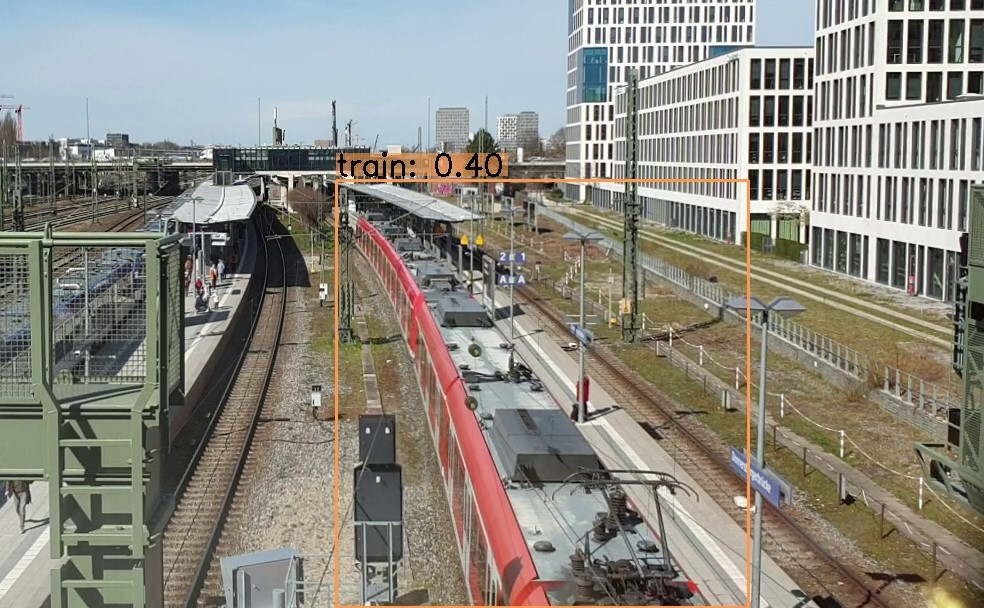
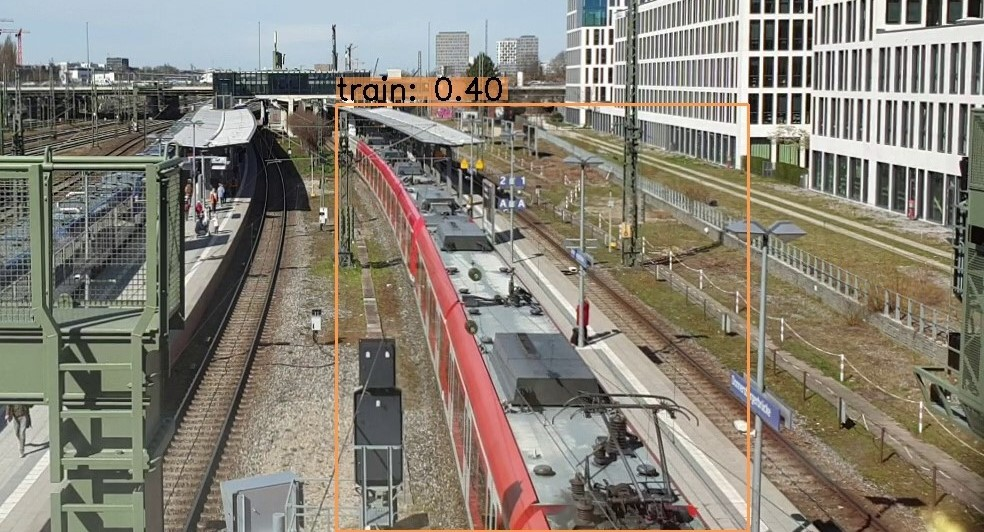
Einige Optimierungen: Rechtschreibung, Formatierung, Bildanpassungen

diff --git a/Latex/VAOT.tex b/Latex/VAOT.tex
@@ -64,83 +64,82 @@
 	
 	
 	\section{Videomaterial}
-	Für dieses Projekt wurden mehrere Aufnahmen aufgenommen. Ziel war es keine zu chaotischen aber auch nicht zu einfache Aufnahmen zu erstellen. Auch sollten verschiedene Szenarien abgebildet werden.\\
+	Für dieses Projekt wurden mehrere Aufnahmen aufgenommen. Ziel war es keine zu chaotischen aber auch nicht zu einfache Aufnahmen zu erstellen. Auch sollten verschiedene Szenarien abgebildet werden. Es wurden drei Aufnahmen angefertigt.\\
 	\textbf{Verkehrsaufnahmen am Brudermühltunnel am Mittleren Ring:}\\
-	Dieser Teil des Mittleren Rings ist sehr verkehrsreich und Autobahnähnlich ausgebaut. Es gibt mehrere Fahrspuren. Alle Fahrzeuge fahren im Sichtfeld in eine Richtung. Es sind ein paar Laternen und Bäume in der Aufnahme die die Sicht etwas beeinträchtigen. Es sind nur Pkwim Datensatz enthalten. Teilweise missachten Fahrzeuge den Sicherheitsabstand und fahren sehr nah aufeinander auf. Das Video hat 60 Bilder pro Sekunde und hat eine Bildauflösung $3840$ × $2160$. Es wurde kein Stativ verwendet sondern nur die interne Stabilisierung des Smartphones genutzt.
+	Dieser Teil des Mittleren Rings ist sehr verkehrsreich und Autobahnähnlich ausgebaut. Es gibt mehrere Fahrspuren. Alle Fahrzeuge fahren im Sichtfeld in eine Richtung. Es sind ein paar Laternen und Bäume in der Aufnahme die die Sicht etwas beeinträchtigen. Es sind nur Pkw im Datensatz enthalten. Teilweise missachten Fahrzeuge den Sicherheitsabstand und fahren sehr nah aufeinander auf. Dies erschwert die Detektion. Das Video hat 60 Bilder pro Sekunde und hat eine Bildauflösung $3840$ × $2160$. Es wurde kein Stativ verwendet sondern nur die interne Stabilisierung des Smartphones genutzt.
 	\begin{figure}[!h]
 		\begin{center}
-			\includegraphics[width=7cm]{Media/BrudermuhlRaw.png}
+			\includegraphics[width=6cm]{Media/BrudermuhlRaw.png}
 			\caption{Verkehrsaufnahmen am Brudermühltunnel}
 			\label{BrudermuhlRaw}
 		\end{center}
 	\end{figure}\\
 	\textbf{Verkehrsaufnahmen am Candidtunnel:}\\
-	Eine stark befahrene Straße mit einer viel zahl von Verkehrsteilnehmern. Es herrscht zwei Richtungsverkehr mit insgesamt sechs Fahrspuren. In eine Richtung stehen die Fahrzeuge in einem Stau. Durch Regen spiegeln viele Oberflächen. Die Bäume bewegen sich aufgrund von stärkeren Wind und verdecken einen Teil der Fahrbahn. Diese Aufnahme ist die Anspruchsvollste. In diesem Video sind neben Pkw auch Busse enthalten. Das Video hat 60 Bilder pro Sekunde und hat eine Bildauflösung $3840$ × $2160$. Es wurde kein Stativ verwendet sondern nur die interne Stabilisierung des Smartphones genutzt.
+	Eine stark befahrene Straße mit einer viel zahl von Verkehrsteilnehmern. Es herrscht Zweirichtungsverkehr mit insgesamt sechs Fahrspuren. In eine Richtung stehen die Fahrzeuge in einem Stau. Durch Regen spiegeln viele Oberflächen. Die Bäume bewegen sich aufgrund von stärkeren Wind und verdecken einen Teil der Fahrbahn. Diese Aufnahme ist die Anspruchsvollste. In diesem Video sind neben Pkw auch Busse enthalten. Das Video hat 60 Bilder pro Sekunde und hat eine Bildauflösung $3840$ × $2160$. Es wurde kein Stativ verwendet sondern nur die interne Stabilisierung des Smartphones genutzt.
 	\begin{figure}[!h]
 		\begin{center}
-			\includegraphics[width=7cm]{Media/CandidRaw.png}
+			\includegraphics[width=6cm]{Media/CandidRaw.png}
 			\caption{Verkehrsaufnahmen am Candidtunnel}
 			\label{CandidtunnelRaw}
 		\end{center}
 	\end{figure}\\
 	\textbf{Zugaufnahmen an der Donnersbergerbrücke:}\\
-	Eine Aufnahme der einer der am stärksten befahren Bahnstrecken Europas \cite{z1}. Hier existiert viel Zugverkehr auf mehreren Gleisen mit unterschiedlichen Zugtypen. Beobachtet werden die vier Gleise der zwei Bahnsteige der S-Bahnhalts Donnersbergerbrücke. Ein Hindernis sind die Masten, Signale und das Bahnsteigdach welche einen guten Blick auf die Züge erschweren. In dieser Aufnahme sind Züge und Fußgänger enthalten. Der Fokus liegt aber bei den Zügen. Das Video hat 30 Bilder pro Sekunde und hat eine Bildauflösung $1920$ × $1080$. Es wurde ein Stativ verwendet.
+	Eine Aufnahme einer der am stärksten befahren Bahnstrecken Europas\cite{z1}. Hier existiert viel Zugverkehr auf mehreren Gleisen mit unterschiedlichen Zugtypen. Beobachtet werden die vier Gleise der zwei Bahnsteige des S-Bahnhalts Donnersbergerbrücke. Ein Hindernis sind die Masten, Signale, Bäume und das Bahnsteigdach welche einen guten Blick auf die Züge erschweren. In dieser Aufnahme sind Züge und Fußgänger enthalten. Der Fokus liegt aber auf den Zügen. Das Video hat 30 Bilder pro Sekunde und hat eine Bildauflösung $1920$ × $1080$. Es wurde ein Stativ verwendet.\\
 	\begin{figure}[!h]
 		\begin{center}
-			\includegraphics[width=7cm]{Media/DonnersbergerRaw.png}
+			\includegraphics[width=6cm]{Media/DonnersbergerRaw.png}
 			\caption{Zugaufnahmen an der Donnersbergerbrücke}
 			\label{DonnersbergerRaw}
 		\end{center}
 	\end{figure}
 	
-	\section{Konzept}
-	
 	\begin{figure*}[!h]
 		\begin{center}
 			\includegraphics[width=16cm]{Media/KonzeptVAOT.png}
-			\caption{Konzept für das Projekt}
+			\caption{Konzept für das Projekt mit zwei Pipelines.}
 			\label{Konzept}
 		\end{center}
 	\end{figure*}
+	
+	\section{Konzept}
 	Ziel des Projektes ist es klassische Verfahren mit neueren DeepLearning Methoden zu vergleichen.
 	Dafür ist für beide Arten eine Pipeline geschaffen worden.\\
 	Für die Klassische Methoden wurde für die Objekterkennung das Gausmixture Verfahren verwendet und für das Tracking den SORT Algorithmus. Für die DeepLearning Verfahren wurde für die Objekterkennung ein Neuronales Netz  und für das Tracking wurde Deepsort verwendet.\\
 	Mit einem Objektzähler können am Ende der beiden Pipelines die Objekte gezählt oder mit einer Zustandserkennung die Bewegungen und Stillstand erfasst werden. Die Abbildung \ref{Konzept} visualisiert das Konzept.\\
-	\\
+	Bilder werden mittels der OpenCV Bibliotheksmethoden Frame für Frame aus einem Video ausgelesen.
 	Bevor mit der Erkennung von Objekten begonnen werden kann, werden die Videoaufnahmen so erstellt, angepasst und eingeschränkt, dass bessere Ergebnisse bei der Erkennung erzielt werden können.
 	\section{Preprocessing}
-	Bilder werden mittels der OpenCV Bibliotheksmethoden Frame für Frame aus einem Video ausgelesen. Des weiteren ist es möglich Bilder vor der weiteren Verarbeitung noch beliebig zuzuschneiden um nur relevant Bereiche zu betrachten. Dies hat den Vorteil das die Performance steigt und auch die Genauigkeit mancher Algorithmen zunimmt. Diese Bilder werden dann in die Pipeline gelegt.\\
-	Es muss die Objektzählerbox definiert werden.
+	Es ist möglich Bilder vor der weiteren Verarbeitung noch beliebig zuzuschneiden um nur relevant Bereiche zu betrachten. Dies hat den Vorteil das die Performance steigt und auch die Genauigkeit mancher Algorithmen zunimmt. Diese Bilder werden dann in die Pipeline gelegt.\\
+	Bevor das Zuschneiden beginnt kann, während und nach der Videoaufnahme, das Video stabilisiert werden.
 	\subsection{Videostabilisierung}
-	Der erste Teil des Preprocessing beginnt vor, während und nach der Videoaufnahme, indem das Video stabilisiert wird. Dabei gibt es folgende Ansätze zur Videostabilisierung:\\
-	\textbf{Mechanische Videostabilisierung}\\
-	Im ersten Ansatz versucht man unerwünschte Bewegungen im Video, die durch das Wackeln der Hand entstehen, durch ein Kamerastativ oder ein Gimbal, welches mit Hilfe von Sensoren Bewegungen ausgleicht, zu vermeiden. Diese Art der Stabilisierung findet vor bzw. während der Aufnahme statt.\\
+	Es gibt folgende Ansätze zur Videostabilisierung:\\
+	\textbf{Mechanische Videostabilisierung:}\\
+	Im ersten Ansatz versucht man unerwünschte Bewegungen im Video, die durch das Wackeln der Hand entstehen, durch ein Kamerastativ oder ein Gimbal, welches mit Hilfe von Sensoren Bewegungen ausgleicht, zu vermeiden. Diese Art der Stabilisierung findet vor bzw. während der Aufnahme statt.
+	In unserer Aufnahme der Donnersbergerbrücke wurde ein Stativ verwendet.\\
 	\begin{figure}[!h]
 		\begin{center}
 			\includegraphics[width=6cm]{Media/GimbalStativ.png}
 			\caption{Ein Stativ und ein Gimbal \cite{g1}\cite{g2}}
 			\label{GS}
 		\end{center}
-	\end{figure}
-	\textbf{Optische Videostabilisierung}\\
-	Die zweite Vorgehensweise bewegt anders als oben nicht die gesamte Kamera, sondern nur Teile im Objektiv oder beim Bildsensor. Es wird also entweder der Bildkreis über dem Bildsensor oder der Bildsensor unter dem Bildkreis verschoben. Beschleunigungssensoren erkennen hier die Bewegung der Kamera und passen dementsprechend die optischen Elemente an, damit das Bild stabilisiert wird. Das Ganze findet während der Aufnahme statt.
-	
-	\textbf{Optische Videostabilisierung}\\
+	\end{figure}\\
+	\textbf{Optische Videostabilisierung:}\\
 	Die zweite Vorgehensweise bewegt anders als oben nicht die gesamte Kamera, sondern nur Teile im Objektiv oder beim Bildsensor. Es wird also entweder der Bildkreis über dem Bildsensor oder der Bildsensor unter dem Bildkreis verschoben. Beschleunigungssensoren erkennen hier die Bewegung der Kamera und passen dementsprechend die optischen Elemente an, damit das Bild stabilisiert wird. Das Ganze findet während der Aufnahme statt.\\
-	\textbf{Digitale Videostabilisierung}\\
+	\textbf{Optische Videostabilisierung:}\\
+	Die zweite Vorgehensweise bewegt anders als oben nicht die gesamte Kamera, sondern nur Teile im Objektiv oder beim Bildsensor. Es wird also entweder der Bildkreis über dem Bildsensor oder der Bildsensor unter dem Bildkreis verschoben. Beschleunigungssensoren erkennen hier die Bewegung der Kamera und passen dementsprechend die optischen Elemente an, damit das Bild stabilisiert wird. Das Ganze findet während der Aufnahme statt. Diese Technik wird in dem genutzten Smartphone verwendet.\\
+	\textbf{Digitale Videostabilisierung:}\\
 	Der letzte Ansatz erfolgt nach der Aufnahme über Software und es ist keine zusätzliche Hardware nötig. Mit Hilfe von Algorithmen werden die Unterschiede zwischen zwei hintereinander folgenden Frames herausgefunden, unerwünschte Bewegungen entfernt und Anschluss zu einem stabilisierten Video zusammengefügt. Im Folgenden soll diese Art der Stabilisierung genauer vorgestellt werden.
 	Dabei wird nicht genauer auf die mathematischen Hintergründe eingegangen, sondern nur die Vorgehensweise beschrieben und auf die Algorithmen dahinter verwiesen.\\
-	\textbf{Videostabilisierung - Implementierung}\\
+	\textbf{Videostabilisierung - Implementierung:}
 	\begin{enumerate}
 		\item Im ersten Schritt werden die Frames eingelesen und in ein Grauwertebild umgewandelt.
 		
 		\item Anschließend wird die Bewegung zwischen dem aktuellen und dem vorherigen Frame herausgefunden. Theoretisch würden 2 Punkte zur Bestimmung reichen, allerdings sollten für eine stabile Schätzung deutlich mehr Punkte verwendet werden.
 		Bildregionen mit besonders vielen Ecken eignen sich hier besonders gut, weshalb mithilfe von goodFeaturesToTrack() von OpenCV die gewünschten Features detektiert werden.
 		Diese Funktion besteht aus einer Modifikation des Harris-Corner-Detectors durch Shi-Tomasi.
-		
 		\begin{figure}[!h]
 			\begin{center}
-				\includegraphics[width=7.5cm]{Media/VideoStab.png}
+				\includegraphics[width=8cm]{Media/VideoStab.png}
 				\caption{+++++++++++CAPTION++++++++++}
 				\label{VS1}
 			\end{center}
@@ -150,7 +149,7 @@
 		
 		\begin{figure}[!h]
 			\begin{center}
-				\includegraphics[width=7cm]{Media/VideoStab2.png}
+				\includegraphics[width=8cm]{Media/VideoStab2.png}
 				\caption{+++++++++++CAPTION++++++++++}
 				\label{VS2}
 			\end{center}
@@ -167,8 +166,7 @@
 		\item Im letzten Schritt wird der Unterschied zwischen der originalen und der geglätteten Trajektorie berechnet und auf die ursprüngliche Transformation addiert, wodurch man eine geglättete Transformation erhält. Diese wird nun auf die Frames angewandt. Um Artefakte zu vermeiden, werden die Bilder um den Bildmittelpunkt minimal skaliert, dadurch können schwarze „Flecken“ an den Bildrändern vermieden werden, solange die Kamerabewegungen nicht zu extrem sind.
 		
 	\end{enumerate}
-	
-	\textbf{Videostabilisierung – Ergebnis}
+	\textbf{Videostabilisierung – Ergebnis:}\\
 	In der Abbildung \ref{VS3} sieht man links die Detektion auf dem Originalvideo und rechts die Detektion auf dem stabilisierten Video. Während die Fahrzeugdetektion fast identisch ist, fällt auf, dass die Bewegungen in den Bäumen und der restlichen Umgebung deutlich geringer sind. Zwar konnten nicht alle unerwünschten Bewegungen entfernt werden, aber es konnte eine sichtbare Verbesserung erzielt werden.
 	\begin{figure*}[!h]
 		\begin{center}
@@ -176,11 +174,10 @@
 			\caption{Ergebnis der Videostabilisierung in einer ++++++++++++++ Darstellung}
 			\label{VS3}
 		\end{center}
-	\end{figure*}
-	
-	\textbf{Videostabilisierung – weiterer Ansatz}
+	\end{figure*}\\
+	\textbf{Videostabilisierung – Alternativer Ansatz:}\\
 	Ein weiterer Ansatz, um die restlichen weißen Punkte zu entfernen ist diese mit einer Erosion zu entfernen und mit einer Dilatation die übrig gebliebenen Fahrzeuge wieder deutlich zu machen.
-	Wie in der folgenden Bilderfolge zu sehen ist verschieden durch die Erosion die unerwünschten Bewegungen, die nicht durch die Videostabilisierung entfernt werden konnten. Die nun kaum sichtbaren Flächen der Fahrzeuge werden mit der Dilatation wieder so weit vergrößert, dass diese wieder gut zu detektieren sind.\\
+	Wie in der folgenden Bilderfolge zu sehen ist verschieden durch die Erosion die unerwünschten Bewegungen, die nicht durch die Videostabilisierung entfernt werden konnten. Die nun kaum sichtbaren Flächen der Fahrzeuge werden mit der Dilatation wieder so weit vergrößert, dass diese wieder gut zu detektieren sind. Diese Schritte kann man gut in den Grafik 9 beobachten.\\
 	\begin{figure}
 		\begin{subfigure}{}
 			\centering\includegraphics[width=7cm]{Media/MOG1.png}
@@ -197,7 +194,7 @@
 		\begin{subfigure}{}
 			\centering\includegraphics[width=7cm]{Media/MOG4.png}
 			\caption{++++++++++++++++++++++}
-		\end{subfigure}
+		\end{subfigure}	
 	\end{figure}
 	
 	
@@ -207,7 +204,7 @@
 	Im ersten Schritt wird der Funktion eine Anzahl an Frames zum „Lernen“ zugeteilt. Aus diesen wird der unbewegte Hintergrund bestimmt, welcher später subtrahiert wird, sodass nur die bewegten Objekte übrigbleiben.
 	Der Algorithmus modelliert für jeden Pixel den Hintergrund mit unterschiedlich gewichteten Gauss-Funktionen.  Diese K-Funktionen enthalten eine Gewichtung $(\omega_i,t)$, den durchschnittlichen Intensitätswert $(\mu_i,t)$ und die Standardabweichung $(\sigma_i,t)$ für den i-ten Gaussian zum Zeitpunkt t.
 	\[ \sum_{i-1}^{K} \omega_i,t * \eta(u; \mu_i,\sigma_i)  \]
-	WAS MACHT ETA??????????\\
+	WAS MACHT ETA??????+++++++++????\\
 	Mit jedem neuen Pixel (z.B. Kamerabewegung oder Fahrzeugbewegung) werden die Gauss-Funktionen frameweise geupdatet. Dabei wird die Pixelhistorie und der neue Pixelwert berücksichtigt. Falls nun zu einem neuen Pixel keiner der Gauss-Funktionen innerhalb eines Thresholds passt, wird der Pixel als Vordergrund deklariert, ansonsten als Hintergrund. Die Abbildung \ref{mogKonzept} zeigt ++++++++++++++\\
 	\begin{figure}[!h]
 		\begin{center}
@@ -219,20 +216,19 @@
 	Vereinfacht beschrieben zählt der Algorithmus in den Lernbildern die Zeit, in welcher ein Pixel den gleichen Intensitätswert hat und bestimmt so den Hintergrund. Ändert sich nun dieser Wert, wird an dem Pixel eine Bewegung erkannt, dieser als Vordergrund bestimmt und die Parameter geupdatet.\\
 	\\
 	\textbf{Probleme MOG}\\
-	Eine Schwierigkeit bei der Objekterkennung ist, dass die Bewegungen hauptsächlich bei großen Intensitätsunterschieden wie der Wechsel von Straße zu Fahrzeuganfang und von Fahrzeugende zur Straße, erkannt werden. Große Flächen wie die Motorhaube, Windschutzscheibe und die Dachfläche werden nicht erkannt, da diese so lange einen Pixel mit einem sehr ähnlichen Intensitätswert „bedecken“, dass dieser zwischendurch als Hintergrund festgelegt wird. Dabei kann es passieren, dass je nach Thresholdgröße mehrere Objekte in einem Fahrzeug erkannt werden.
+	Eine Schwierigkeit bei der Objekterkennung ist, dass die Bewegungen hauptsächlich bei großen Intensitätsunterschieden wie der Wechsel von Straße zu Fahrzeuganfang und von Fahrzeugende zur Straße, erkannt werden. Große Flächen wie die Motorhaube, Windschutzscheibe und die Dachfläche werden nicht erkannt, da diese so lange einen Pixel mit einem sehr ähnlichen Intensitätswert „bedecken“, dass dieser zwischendurch als Hintergrund festgelegt wird. Dabei kann es passieren, dass je nach Thresholdgröße mehrere Objekte in einem Fahrzeug erkannt werden. ++++Bezug auf Grafik \ref{mogFehler}+++++
 	\begin{figure}[!h]
 		\begin{center}
-			\includegraphics[width=7cm]{Media/MOGVergleich.png}
-			\caption{++++++++++++++++++++++++++}
-			\label{mogKonzept}
+			\includegraphics[width=8cm]{Media/MOGVergleich.png}
+			\caption{+++++++++++++++++++++++++++++++++++}
+			\label{mogFehler}
 		\end{center}
 	\end{figure}
 	
-	
 	\section{Objekterkennung: YoloV4}
-	YOLO ist ein Neuronal Netz für die Echtzeit-Objekterkennung. In diesem Projekt verwendeten wir die 4te und damit aktuellste Version von Yolo\cite{b2}. So bietet jede Version inkrementelle Verbesserung zum jeweiligen Vorgänger. In dem folgenden Abschnitt werden die wichtigsten Punkte aller Versionen erläutert.\\
+	YOLO ist ein Neuronal Netz für die Echtzeit-Objekterkennung. In diesem Projekt verwendeten wir die vierte und damit aktuellste Version von Yolo\cite{b2}. So bietet jede Version inkrementelle Verbesserung zum jeweiligen Vorgänger. In dem folgenden Abschnitt werden die wichtigsten Punkte aller Versionen erläutert.\\
 	YOLO ist die Abkürzung für 'You Only Look Once' was übersetzt 'Man sieht nur einmal hin' heißt. Die Aufgabe der Objekterkennung besteht darin, den Ort und die Größe der Bounding Box im Bild zu bestimmen, sowie die Objekte zu klassifizieren. Frühere Methoden, wie R-CNN und seine Variationen, verwendeten eine Pipeline, um diese Aufgabe in mehreren Schritten durchzuführen. Dies ist in der Ausführung langsam und aufwendiger zu trainieren, da jede einzelne Komponente separat trainiert werden muss. YOLO, erledigt beide Aufgaben mit einem einzigen Convolutional Neural Network. Es betrachtet dabei die Objekterkennung als ein Regressionsproblem auf räumlich getrennte Bounding Boxes und zugehörige Klassenwahrscheinlichkeiten.\\
-	Die verwendete Loss-Funktion betrachtet drei Komponenten:
+	Für die Regression verwendete Loss-Funktion betrachtet drei Komponenten:
 	\begin{enumerate}
 		\item \textbf{Localization loss:} Differenz zwischen vorhergesagten Bounding-Box-Werten (x,y,w und h) und tatsächlichen Bounding-Box-Werten.
 		\[ \lambda_{coord} \sum_{i=0}^{S^2}\sum_{j=0}^{B} \mathbb{1}_{i j}^{obj} [(x_i - \hat{x}_i )^2 + (y_i - \hat{y}_i )^2] \]
@@ -251,8 +247,7 @@
 		Wenn $\mathbb{1}_{i}^{obj} = 1$ dann wurde ein Objekt in Zelle $i$ gefunden.
 		$\hat{p}_i(c)$ beschreibt die Klassenwahrscheinlichkeit für die Klasse $c$ in der Zelle $i$ \cite{b5}.
 	\end{enumerate}
-	
-	Zusammengesetzt sieht der Loss wie folgt aus.
+	Zusammengesetzt sieht der Loss wie folgt aus:
 	\[ \lambda_{coord} \sum_{i=0}^{S^2}\sum_{j=0}^{B} \mathbb{1}_{i j}^{obj} [(x_i - \hat{x}_i )^2 + (y_i - \hat{y}_i )^2] \]
 	\[ + \lambda_{coord} \sum_{i=0}^{S^2}\sum_{j=0}^{B} \mathbb{1}_{i j}^{obj} [(\sqrt{w_i} - \sqrt{\hat{w}_i} )^2 + (\sqrt{h_i} - \sqrt{\hat{h}_i} )^2] \]
 	\[ + \sum_{i=0}^{S^2}\sum_{j=0}^{B} \mathbb{1}_{i j}^{obj} (C_i - \hat{C}_i)^2 \]
@@ -270,7 +265,7 @@
 			\label{IoU}
 		\end{center}
 	\end{figure}\\
-	In Abbildung \ref{IoU} ist die Berechnung der Intersection-Over-Union dargestellt. Sie beschreibt das Verhältnis der Schnittfläche einer Bounding Box mit der Grundwahrheit bezüglich der Gesamtfläche von Bounding Box und Grundwahrheit. Je genauer die beiden Flächen übereinander liegen desto höher der Wert, desto besser ist die Vorhersage der Bounding Box. ++QUELLE++\\
+	In Abbildung \ref{IoU} ist die Berechnung der Intersection-Over-Union dargestellt. Sie beschreibt das Verhältnis der Schnittfläche einer Bounding Box mit der Grundwahrheit bezüglich der Gesamtfläche von Bounding Box und Grundwahrheit. Je genauer die beiden Flächen übereinander liegen desto höher der Wert, desto besser ist die Vorhersage der Bounding Box.\\
 	\\
 	In der zweiten Version von Yolo wurde an mehreren Stellen etwas verbessert. So wurde zum Beispiel Batch-Normalization in Convolutioonal-Layers eingefügt.\\
 	Die Inputgröße des Netzes wurde von $224*224$ auf $448*448$ erhöht.\\
@@ -294,7 +289,7 @@
 	Außerdem wir der \textit{objectness score} $t_o$ vorhergesagt.
 	\[ P_r(Object)*IoU_{b}^{object} = \sigma(t_o) \]
 	$\sigma(t_o)$ entspricht dem Box Konfidenz Score.
-	Der Output des Modells enthält für jede Gitterzelle n Boxen, wobei n der Anzahl der Ankerboxen entspricht. Jede Box ist ein Vektor aus 4 Koordinaten objectness score und der Klassen C. Der Vektor enthält: $[b_x,b_y,b_w,b_h, b_o, C]$\cite{b3}.
+	Der Output des Modells enthält für jede Gitterzelle n Boxen, wobei n der Anzahl der Ankerboxen entspricht. Jede Box ist ein Vektor aus vier Koordinaten, dem \textit{Objectnessscore} und der Klassenwahrscheinlichkeiten C. Der Vektor enthält: $[b_x,b_y,b_w,b_h, b_o, C]$\cite{b3}.
 	\[ C = [c_1, c_2,..., c_{80}]^T\]
 	\[ P = [P_r * c_1, P_r * c_2, ..., P_r * c_{80}] \]
 	\[ class = argmax_i(C)\]
@@ -310,19 +305,19 @@
 			\label{FPN}
 		\end{center}
 	\end{figure}\\
-	Die letzte dieser Schichten der jeweiligen Skalierungen sagt einen 3-D-Tensor voraus, der Bounding Box, Objekthaftigkeit und Klassenvorhersagen enthält. Es werden aber für jede der drei Skalierung drei Boxen vorausgesagt. Der Tensor entspreche dann für 4 Bounding-Box-Offsets, 1 Objektvorhersage und 80 Klassenvorhersagen $N*N*[3*(4 + 1 + 80)]$.\cite{b4}\\
+	Die letzte dieser Schichten der jeweiligen Skalierungen sagt einen 3-D-Tensor voraus, der Bounding Box, Objekthaftigkeit und Klassenvorhersagen enthält. Es werden aber für jede der drei Skalierung drei Boxen vorausgesagt. Der Tensor enthält dann die vier Bounding-Box-Offsets, eine Objektvorhersage und 80 Klassenvorhersagen $N*N*[3*(4 + 1 + 80)]$ \cite{b4}.\\
 	\\
 	YoloV4 hat die Geschwindigkeit und Genauigkeit verbessert. So nennt das Paper \cite{b2} zum Beispiel \textit{Bag of Freebies}. Damit sind Verbesserungen gemeint die die Genauigkeit des Modells zur Trainingszeit verbessern aber die Inferenzzeit nicht beeinflussen. So wurde stark das Training optimiert. Bei dem Training werden Bilder zusätzlich aus dem Datensatz generiert. Existierende Bilder werden dupliziert und dann rotiert, zugeschnitten, verzerrt, verdunkelt, etc. und dann auch durch das Netz geschickt. 
 	Auch Techninken wie \textit{Cut Mix} und \textit{Mosaic Dataaugmentation} werden angewendet. Bei älteren Verfahren werden Bildteile gelöscht. Bei den beiden verwendeten Verfahren werden stattdessen Bildteile aus den Trainingsdaten ausgeschnitten und kombiniert, wobei die Ground-Truth-Labels ebenfalls angespasst werden müssen. Diese Data Augmentation sorgt für eine verbesserte Generalisierungfähigkeit des Modells.\\
 	Regularisierungmethoden wie \textit{DropOut} und \textit{DropBlock} wurden gegen Overfitting eingesetzt.\\
-	Auch wird die Lossfunktion angepasst. Bei den bisherigen Versionen wurde die Mittlere quadratische Abweichung (MSE) für das Regressionsproblem verwendet. Diese Regression wird dann unabhängig für alle Vorhersagen von $t_x, t_y, t_w, t_h$ verwendet. Sinnvoller ist es die Koordinaten zusammen als die IoU der Boundingboxen in Betracht zu ziehen. Deshalb verwendet YoloV4 \textit{CIoU} als Lossfunktion um die Integrität der Objekte mit einzubeziehen.
+	Auch wird die Lossfunktion aus YoloV1 angepasst. Bei den bisherigen Versionen wurde die mittlere quadratische Abweichung (MSE) für das Regressionsproblem verwendet. Diese Regression wird dann unabhängig für alle Vorhersagen von $t_x, t_y, t_w, t_h$ verwendet. Sinnvoller ist es die Koordinaten zusammen als die IoU der Boundingboxen in Betracht zu ziehen. Deshalb verwendet YoloV4 \textit{CIoU} als Lossfunktion um die Integrität der Objekte mit einzubeziehen.\\
 	Weitere Verbesserungen die auf Kosten der Laufzeit gehen werden \textit{Bag of Specials} genannt. Dazu gehören zum Beispiel \textit{Squeeze-and-Excitation}, \textit{Spatial Attention Module}, Vergrößerung des Rezeptionsfeldes des Modells und Stärkung der Fähigkeit zur Merkmalsintegration.\\
 	Im Backbone wird eine \textit{MISH}-Aktivierungsfunktion verwendet. Diese ist eine glatte und nicht-monotone neuronale Aktivierungsfunktion, die wie folgt definiert werden kann:
 	\[ f(x) = x* \tanh (\ln (1+e^x)) \]
 	Sie arbeitet besser als zum Beispiel \textit{ReLU} oder Swish \cite{b7}.\\
 	Die Komponenten in der Architektur wurde auch ersetzt. Im \textit{Backbone} läuft nun \textit{CSPDarknet53}. Dies basiert auf dem Darknet53 aus YoloV3 und wird mit Cross-Stage-Partial-Networks erweitert. Im Hals des Netzes wird \textit{Spatial pyramid pooling} (SPP) verwendet. \textit{Path Aggregation Network} (PANet) und \textit{Spatial Attention Module} (SAM) ersetzen die Merkmalspyramidennetze (FPN) die YoloV3 verwendet.\\
-	\textit{Convolutional-Layer} brauchen keine feste Bildgröße und erzeugen deshalb  Feature-Maps beliebiger Größen. \textit{Fullyconnected-Layer} benötigen stattdessen per Definition eine Eingabe mit fester Länge. SPP entfernt genau diese Restriktion. SPP wendet verschiedene Strategien bei unterschiedlichen Skalierungen an. Die Feature-Maps werden räumlich in $m$ × $m$ Bins unterteilt. Dann wird ein Maximumpool auf jeden Bin für jeden Kanal angewendet. In YoloV4 wird eine modifiziert Version von SPP verwendet die die räumliche Dimension der Ausgabe beibehaltet \cite{b9}.
-	In FPN werden die Objekte separat und unabhängig voneinander auf verschiedenen Skalenebenen erkannt. Dies kann zu doppelten Vorhersagen führen. PAN erweitert FPN mit einem Bottom-up-Pfad der die Weitergabe von Informationen aus den unteren Ebenen erleichtern. Durch adaptives Featurepooling kann auf jede Vorhersagen aus allen Ebenen zugriffen werden.\cite{b10}\\
+	\textit{Convolutional-Layer} brauchen keine feste Bildgröße und erzeugen deshalb  Feature-Maps beliebiger Größen. \textit{Fullyconnected-Layer} benötigen stattdessen per Definition eine Eingabe mit fester Länge. SPP entfernt genau diese Restriktion. SPP wendet verschiedene Strategien bei unterschiedlichen Skalierungen an. Die Feature-Maps werden räumlich in $m$ × $m$ Bins unterteilt. Dann wird ein Maximumpool auf jeden Bin für jeden Kanal angewendet. In YoloV4 wird eine modifiziert Version von SPP verwendet die die räumliche Dimension der Ausgabe beibehaltet \cite{b9}.\\
+	In den FPN aus YoloV3 werden die Objekte separat und unabhängig voneinander auf verschiedenen Skalenebenen erkannt. Dies kann zu doppelten Vorhersagen führen. PAN erweitert FPN mit einem Bottom-up-Pfad der die Weitergabe von Informationen aus den unteren Ebenen erleichtern. Durch adaptives Featurepooling kann auf jede Vorhersagen aus allen Ebenen zugriffen werden.\cite{b10}\\
 	SAM verbessert die räumliche Aufmerksamkeit.\\
 	Am \textit{Head} der für Prädiktion verantworlich ist wurde nichts geändert und  ist damit identisch zu YoloV3 \cite{b2}\cite{b8}. Diese Architektur mit der viel zahl an Komponenten wird in er Abbildung \ref{V4Arch} dargestellt.
 	\begin{figure}[!h]
@@ -345,7 +340,7 @@
 	Dennoch kann man je nach Szenario per Parameter die relevanten Klassen auswählen. Das Modell prädiktiert trotzdem noch alle Klassen. Die nicht relevanten werden einfach nur im Postprocessing herausgefiltert.\\
 	Ein weitere Postprocesingschritt ist es die Detektion die eine zu geringe Sicherheit besitzen zu entfernen.\\
 	Die übrigen Boxen durchlaufen eine Non-Maxima-Suppression.
-	Der Output kann überschneidende Boundingboxen besitzen die eigentlich zur selben Klasse gehören. Diese Duplikate können mittels der Non-Maxima-Suppression entfernt werden. Hierfür wird die IOU der Boxen berechnet. Sollte die IOU einen Threshold überschreiten dann wird das Duplikat entfernt. Die Grafik \ref{NMS} zeigt wie zu viele überlappende Boxen mit einer NMS mit einer ersetzt werden kann.\\
+	Der Output kann überschneidende Boundingboxen besitzen die eigentlich zur selben Klasse gehören. Diese Duplikate können mittels der Non-Maxima-Suppression (NMS) entfernt werden. Hierfür wird die IoU der Boxen berechnet. Sollte die IoU einen Threshold überschreiten dann wird das Duplikat entfernt. Die Grafik \ref{NMS} zeigt wie zu viele überlappende Boxen mit einer NMS mit einer ersetzt werden kann.\\
 	\begin{figure}[!h]
 		\begin{center}
 			\includegraphics[width=6cm]{Media/NMS.png}
@@ -356,7 +351,7 @@
 	Das Ergebnis einer Prädiktion ist eine Liste von Objekten welches aus den x,y Koordinate des Mittelpunktes der Boundingbox, der Breite w, der Höhe h, der Klasse und des Konfidenzwerts besteht.
 	
 	\subsection{Fehler in der Erkennung}
-	YoloV4 ist nicht perfekt. So gibt es gelegentlich Falschklassifizierungen, fehlende Detektionen oder unpassende Boundingboxen. Dieser Abschnitt zeigt Beispiele für diese Art von Fehler auf.\\
+	YoloV4 ist nicht perfekt. So gibt es gelegentlich Falschklassifizierungen, fehlende Detektionen oder unpassende Boundingboxen.  Fehlerursachen sind aber sehr schwer zu erklären da das Netz eine Blackbox ist. Dieser Abschnitt zeigt Beispiele für diese Art von Fehler auf.\\
 	\textbf{Falschklassifizierung:}\\
 	Selten Klassifiziert das Netz falsch. So wie in der Abbildung \ref{FaK} zu sehen ist wurde ein Bus als Pkw klassifiziert. Das Modell ist sich in diesem Beispiel auch nur unsicher mit $31\%$. Der Fehler lässt sich vermutlich erklären da die Frontpartie des Bus einem Pkw sehr ähnelt und der Rest des Fahrzeuges wegen einem Baum und einer Laterne verdeckt wird. Auch ist zu vermuten, dass das Netz falsche Merkmale gelernt hat. Dies könnte mit Sicherheit verbessert werden wenn das Modell nur auf die für uns relevanten Klassen trainiert worden wäre. Die folgenden Abbildungen \ref{FaK}, \ref{FaK2}, \ref{FaK3} und \ref{FaK4} sind Beispiele für falsche Klassifikationen. Speziell ist vorallem der Fehler in Bild \ref{FaK4}. Hier wurde ein Anhänger als Fahrzeug klassifiziert. Der Ursprung dieses Fehlers kann unterschiedliche Gründe haben. Dies liegt wahrscheinlich auch am Datensatz selbst.
 	\begin{figure}[!h]
@@ -365,21 +360,21 @@
 			\caption{Falschklassifizierung eines Bus wegen Verdeckung}
 			\label{FaK}
 		\end{center}
-	\end{figure}\\
+	\end{figure}
 	\begin{figure}[!h]
 		\begin{center}
 			\includegraphics[width=7cm]{Media/Output_847 - Kopie.jpg}
 			\caption{Falschklassifizierung des Dachs als Pkw}
 			\label{FaK2}
 		\end{center}
-	\end{figure}\\
+	\end{figure}
 	\begin{figure}[!h]
 		\begin{center}
 			\includegraphics[width=7cm]{Media/Output_108 - Kopie (2).jpg}
 			\caption{Falschklassifizierung eines Hausdachs}
 			\label{FaK3}
 		\end{center}
-	\end{figure}\\
+	\end{figure}
 	\begin{figure}[!h]
 		\begin{center}
 			\includegraphics[width=7cm]{Media/Output_829 - Kopie.jpg}
@@ -389,7 +384,7 @@
 	\end{figure}\\
 	
 	\textbf{Fehlende Detektion:}\\
-	Ein etwas häufigerer Fehler ist das Detektionen komplett fehlen. Dies kann mehrere Gründe haben. So zeigt die Abbildung \ref{FeK} zwei Typische Gründe. Hauptgrund ist es das Objekte teilweise verdeckt sind. In Kombination wenn Objekte sehr klein sind ist es nahezu nicht mehr möglich zuverlässig Detektion zu bekommen. Auch wenn Objekte das Bild verlassen oder gerade betreten kann es noch kurz zu fehlenden Detektionen führen.
+	Ein etwas häufigerer Fehler ist das Detektionen komplett fehlen. Dies kann mehrere Gründe haben. So zeigt die Abbildung \ref{FeK} und \ref{FeK2} zwei Typische Gründe. Hauptgrund ist es das Objekte teilweise verdeckt sind. In Kombination wenn Objekte sehr klein sind ist es nahezu nicht mehr möglich zuverlässig Detektion zu bekommen. Auch wenn Objekte das Bild verlassen oder gerade betreten kann es noch kurz zu fehlenden Detektionen führen.
 	\begin{figure}[!h]
 		\begin{center}
 			\includegraphics[width=7cm]{Media/Output_680 - Kopie.jpg}
@@ -405,35 +400,36 @@
 		\end{center}
 	\end{figure}\\
 	\textbf{Unpassende Boundingboxen:}\\
-	Yolo hat durch seine Eigenschaft nur rechteckige Boundingboxen vorhersagen zu können eine große Schwäche. Das resultiert in manchen Szenarien zu sehr unpassenden Boundingboxen. Beispielsweise kann man in der Abbildung \ref{UB} gut erkennen das wegen dem Busses welcher Diagonal steht die Boxen zu groß werden. Der Effekt tritt noch verstärkter auf bei noch längere Objekten wie Zügen wie zum Beispiel in Bild \ref{UB4} zusehen. Der Fehler der in Abbildung \ref{UB3} zu sehen ist hängt womöglich von Fehlern im Training zusammen. Züge wurden vielleicht an Bahnsteigen schlecht gelabelt was dem Netz dann beigebracht hat Bahnsteige als Züge zu klassifizieren. Auch kann die Box für das Objekt etwas falsch anliegen wenn Bäume oder Laternen ein Teil verdecken wie in Abbildung \ref{UB2} zu sehen ist. Diese unpassenden Boxen erschweren das Tracking ungemein. Dazu später aber noch mehr. 
+	Yolo hat durch seine Eigenschaft nur rechteckige Boundingboxen vorhersagen zu können eine große Schwäche. Das resultiert in manchen Szenarien zu sehr unpassenden Boundingboxen. Beispielsweise kann man in der Abbildung \ref{UB} gut erkennen das wegen dem Busses welcher Diagonal steht die Boxen sehr groß werden können. Der Effekt tritt noch verstärkter auf bei noch längere Objekten wie Zügen wie zum Beispiel in Bild \ref{UB4} zusehen. Der Fehler der in Abbildung \ref{UB3} zu sehen ist hängt womöglich von Fehlern im Training zusammen. Züge wurden vielleicht an Bahnsteigen schlecht gelabelt was dem Netz dann beigebracht hat Bahnsteige als Züge zu klassifizieren. Auch kann die Box für das Objekt etwas falsch anliegen wenn Bäume oder Laternen ein Teil verdecken wie in Abbildung \ref{UB2} zu sehen ist. Diese unpassenden Boxen erschweren das Tracking ungemein. Dazu später aber noch mehr. 
 	\begin{figure}[!h]
 		\begin{center}
-			\includegraphics[width=7cm]{Media/Output_777 - Kopie.jpg}
+			\includegraphics[width=8cm]{Media/Output_777 - Kopie.jpg}
 			\caption{Unpassende Boundingbox}
 			\label{UB}
 		\end{center}
 	\end{figure}\\
 	\begin{figure}[!h]
 		\begin{center}
-			\includegraphics[width=7cm]{Media/Output_276 - Kopie.jpg}
+			\includegraphics[width=8cm]{Media/Output_2126.jpg}
+			\caption{Unpassende Boundingbox}
+			\label{UB4}
+		\end{center}
+	\end{figure}\\
+	\begin{figure}[!h]
+		\begin{center}
+			\includegraphics[width=8cm]{Media/Output_276 - Kopie.jpg}
 			\caption{Unpassende Boundingbox}
 			\label{UB2}
 		\end{center}
 	\end{figure}\\
 	\begin{figure}[!h]
 		\begin{center}
-			\includegraphics[width=7cm]{Media/Output_564.jpg}
+			\includegraphics[width=8cm]{Media/Output_564.jpg}
 			\caption{Unpassende Boundingbox}
 			\label{UB3}
 		\end{center}
 	\end{figure}\\
-	\begin{figure}[!h]
-		\begin{center}
-			\includegraphics[width=7cm]{Media/Output_2126.jpg}
-			\caption{Unpassende Boundingbox}
-			\label{UB4}
-		\end{center}
-	\end{figure}\\
+
 	
 	
 	\section{Tracking: Sort}
@@ -596,15 +592,13 @@
 	Durch die Anpassung der maximalen IoU-Distanz
 	kann ein häufiger Wechsel der ID mit direkt benachbarten Fahrzeugen vermieden werden.
 	
-	
-	
-	
-	
 	\section{Zählen von Objekten}
 	Wir testeten verschiedene Verfahren zu Zählen der gefundenen Objekte die das Video passieren.\\
-	\textbf{Zählen der vergebenen TrackingID's.} Unser erster Plan war das Zählen aller vergebenen Tracking ID's. Dies hätte den Vorteil das sobald ein Objekt gefunden wird auch gezählt wird. Wir stellten aber schnell fest das Aufgrund von Fehlern in der Pipeline Objekten mehrfach neue IDs zugewiesen wurde. Diese Probleme entstehen in Kombination aus Fehlern in der Objekterkennung und dem Tracker. Je zuverlässiger das Tracking funktioniert desto geringer ist der Fehler im Zählen. Da aber ein perfekter Tracker nicht immer realistisch ist müssen bessere Lösungen gefunden werden.\\
+	\textbf{Zählen der vergebenen TrackingID's.}\\
+	 Unser erster Plan war das Zählen aller vergebenen Tracking ID's. Dies hätte den Vorteil das sobald ein Objekt gefunden wird auch gezählt wird. Wir stellten aber schnell fest das Aufgrund von Fehlern in der Pipeline Objekten mehrfach neue IDs zugewiesen wurde. Diese Probleme entstehen in Kombination aus Fehlern in der Objekterkennung und dem Tracker. Je zuverlässiger das Tracking funktioniert desto geringer ist der Fehler im Zählen. Da aber ein perfekter Tracker nicht immer realistisch ist müssen bessere Lösungen gefunden werden.\\
 	\textbf{Zähllinie.} Um Trackingfehler zu umgehen bauten wir eine Zähllinie ein die sobald der Mittelpunkt der Boundingbox diese schneidet einmal hochzählt. Dies hatte noch immer Probleme wie zum Beispiel das manche Boxen doppelt gezählt wurden ohne manche die Linie direkt übersprungen haben. WAS WAR DA NOCHMAL FALSCH Thomas?\\
-	\textbf{Zählung der Tracking IDs in einer Zählbox.} Um die beiden Techniken zu vereinen wurde eine Zählbox entwickelt. So kann für jedes Szenario per Parameter die Position und Größe der Zählbox definiert werden. Sobald der Mittelpunkt einer Boundingbox in den die Zählbereich eindringt wird überprüft ob diese Tracking ID schon in einem Set enthalten ist. Ist sie es noch nicht wird hochgezählt. Es ist sinnvoll die Zählbox in Bereiche zu setzten in denen das Tracking zuverlässig funktioniert. 
+	\textbf{Zählung der Tracking IDs in einer Zählbox.}\\
+	 Um die beiden Techniken zu vereinen wurde eine Zählbox entwickelt. So kann für jedes Szenario per Parameter die Position und Größe der Zählbox definiert werden. Sobald der Mittelpunkt einer Boundingbox in den die Zählbereich eindringt wird überprüft ob diese Tracking ID schon in einem Set enthalten ist. Ist sie es noch nicht wird hochgezählt. Es ist sinnvoll die Zählbox in Bereiche zu setzten in denen das Tracking zuverlässig funktioniert. 
 	\begin{figure}[!h]
 		\begin{center}
 			\includegraphics[width=7cm]{Media/BrudermuhlCounter.png}
